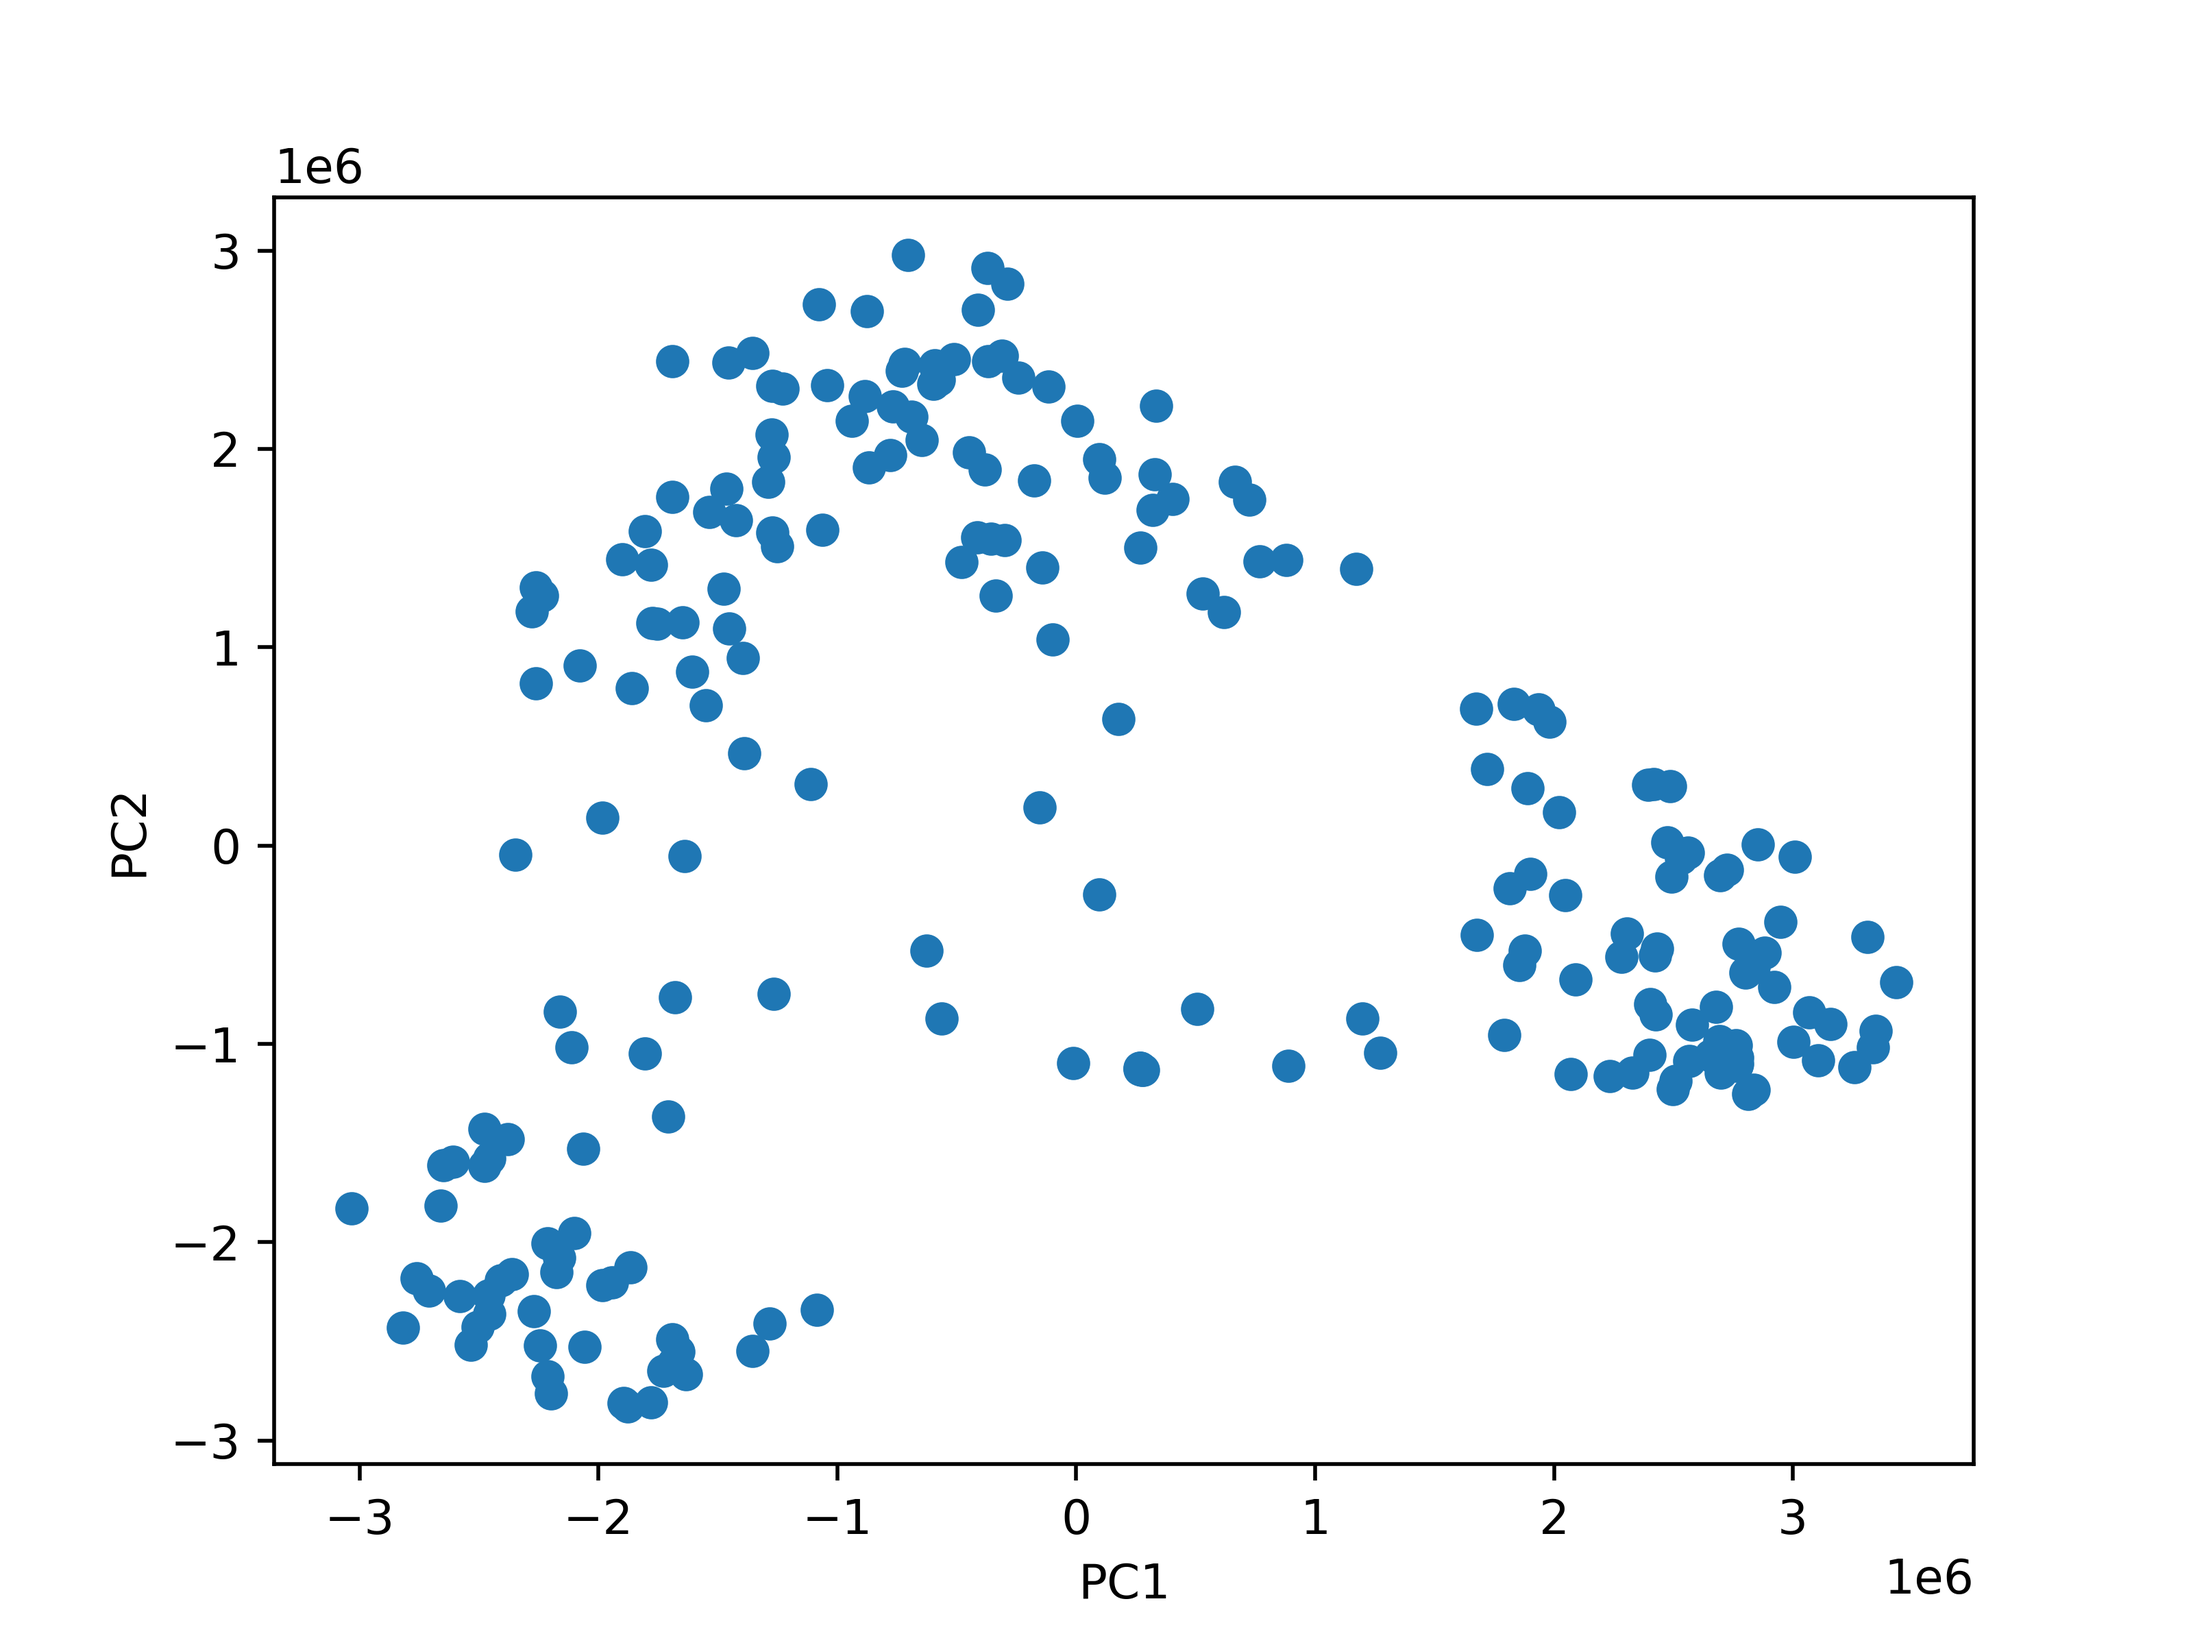
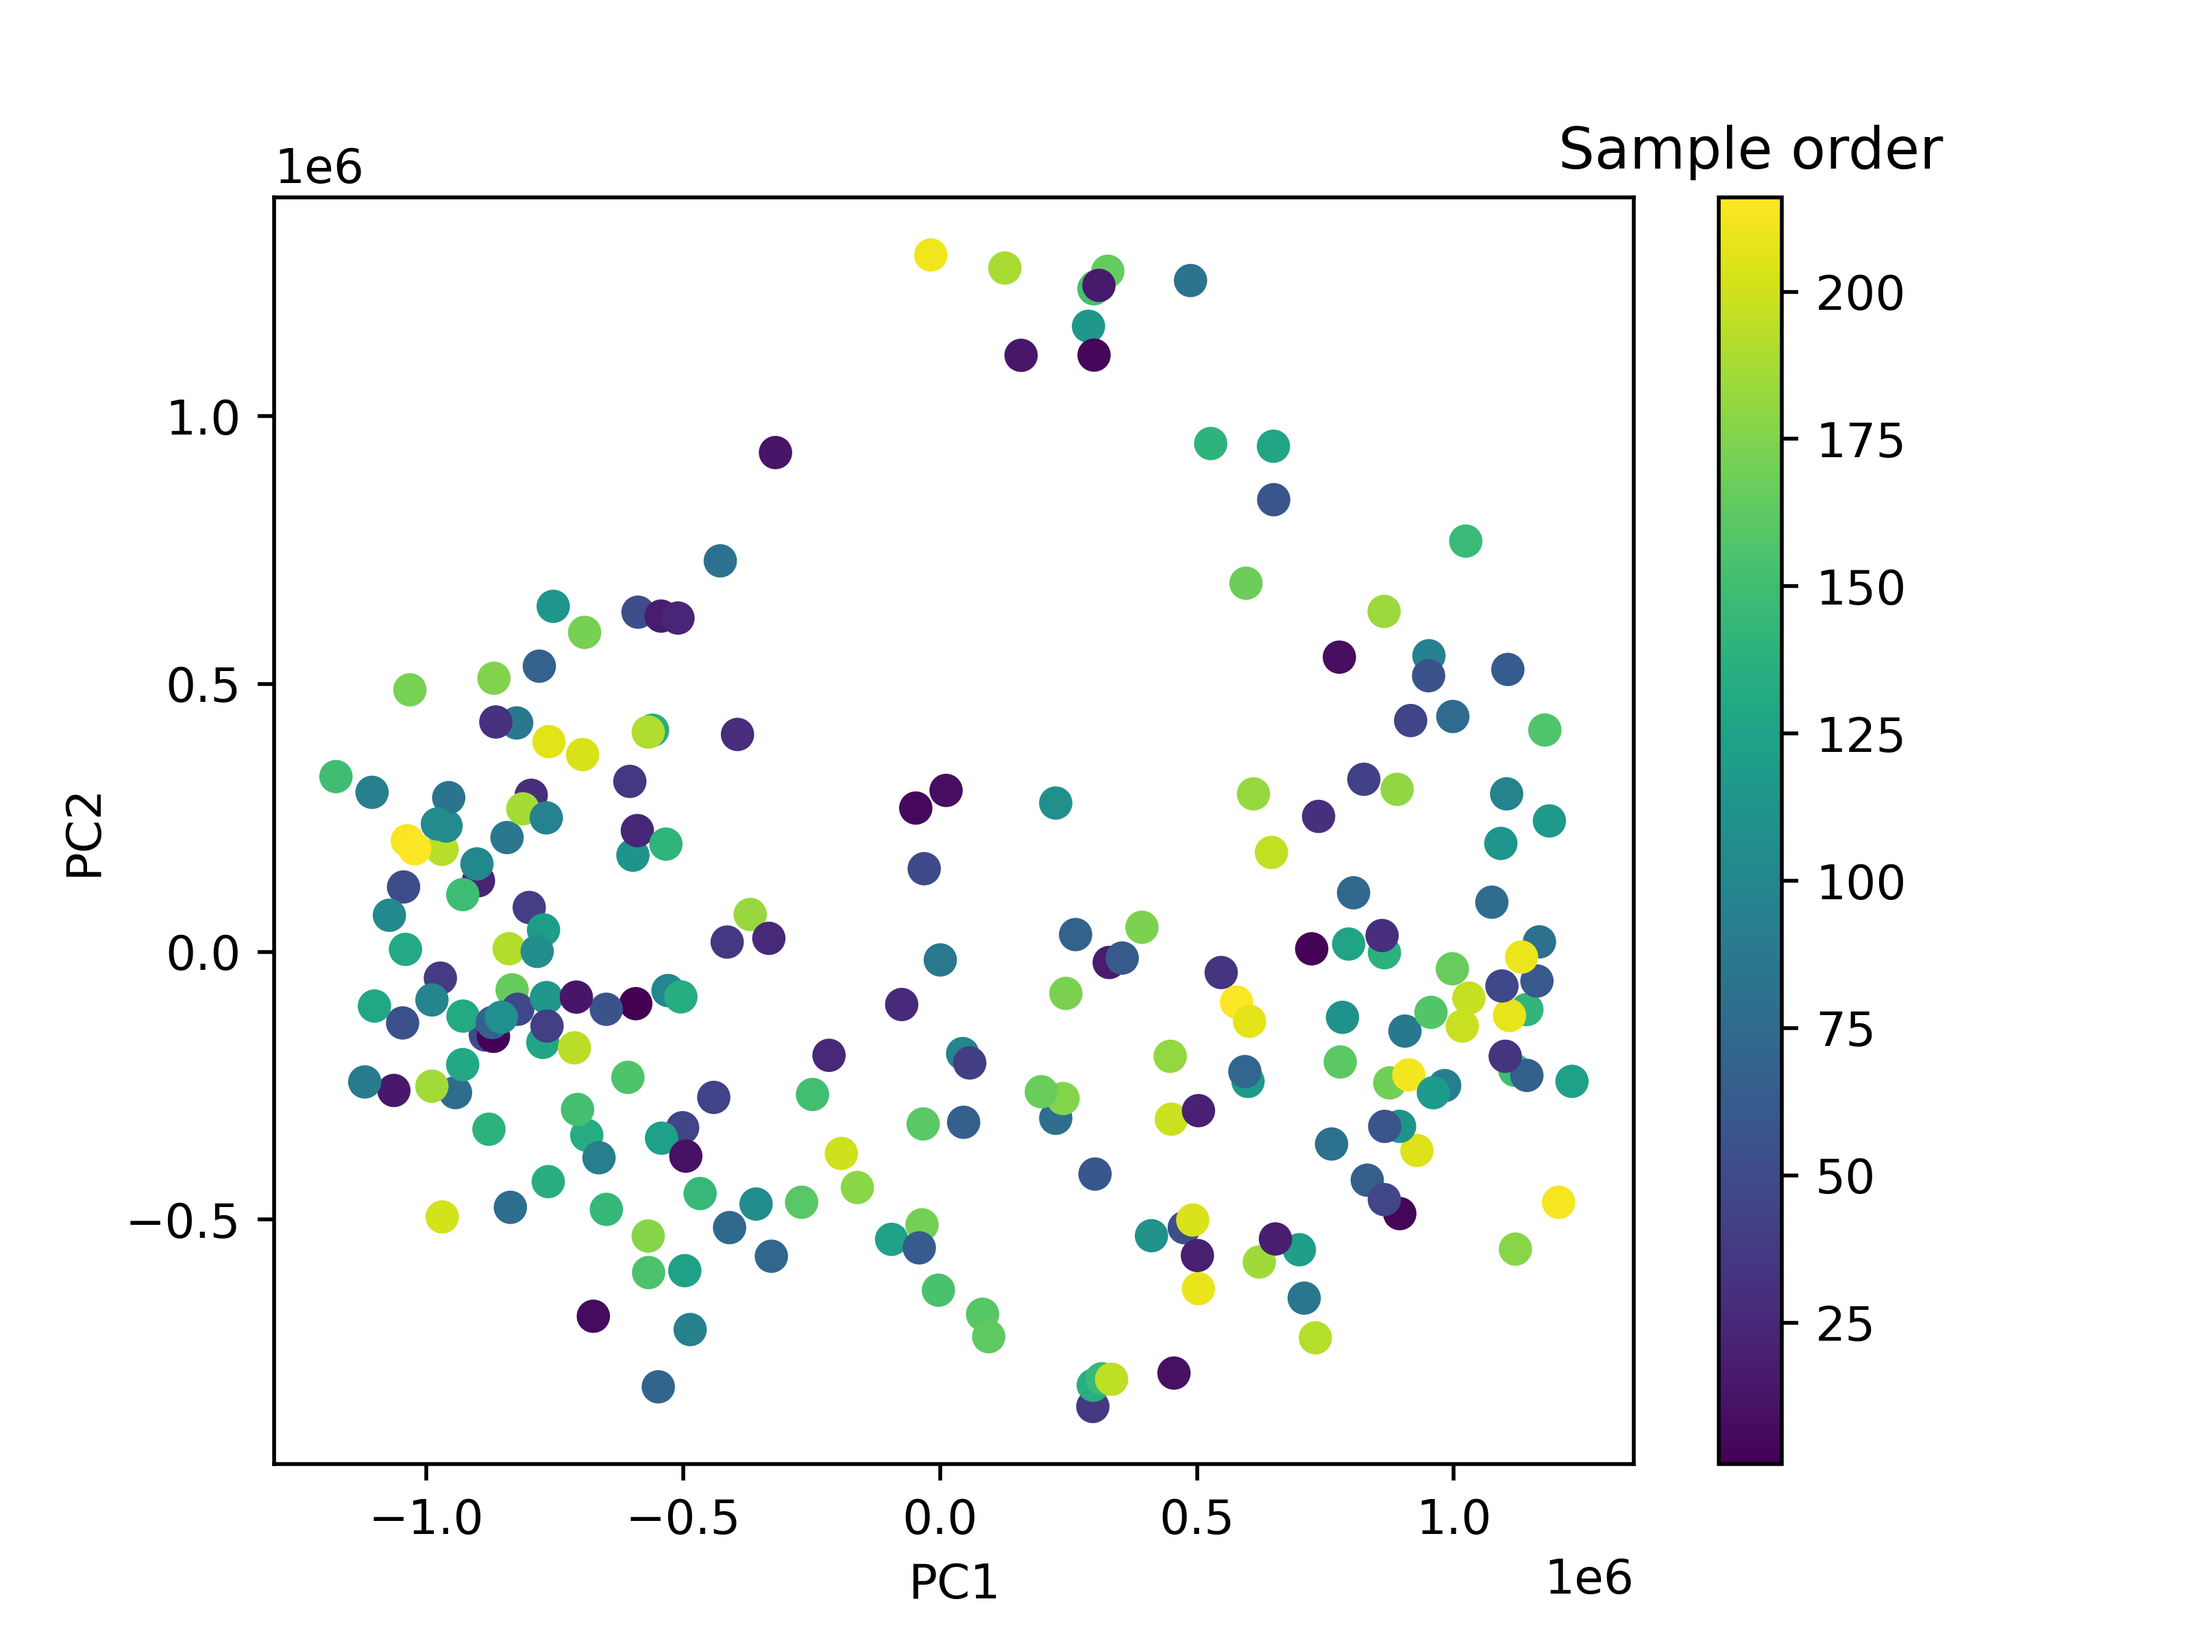
major update

diff --git a/2-align2pca.py b/2-align2pca.py
@@ -1,0 +1,98 @@
+#%% Import vars and modules
+
+DIR = '/Users/franciscolima/Documents/Projects/metab_conv/'
+# Pars
+NITER = 2500
+T_EPS = 1e-6
+HEIGHT = 1024
+WIDTH = 512
+SEED = 999
+
+# Imports
+import os, re, glob, sys, cv2
+os.chdir(DIR)
+import img_utils
+from tqdm import tqdm
+import pandas as pd
+import numpy as np
+from matplotlib import pyplot as plt
+from sklearn.preprocessing import StandardScaler
+from sklearn.decomposition import PCA
+
+#%% Load metadata
+
+metadata = pd.read_csv(DIR + 'metadata/a_metabolomics_Fernie.txt', sep='\t')
+
+#%% Load .npy arrays, image aligment to the smallest
+
+# List all arrays
+arrays = glob.glob(r'arrays/*.npy')
+
+# Take avg arr as reference for alignment; for smallest arr use arrays.pop(sizes.argmin())
+ref = np.mean(np.stack([img_utils.img_load_prep(arr, (WIDTH, HEIGHT)) for arr in arrays]), axis=0)
+
+# Apply alignment over all images, add ref to list
+print('ECC image alignment...')
+aligned = [img_utils.img_registration(ref.astype(np.float32), arr, NITER, T_EPS) for arr in tqdm(arrays)]
+
+# Prepare control set to compare with vs without alignment
+print('Produce non-aligned counterpart for comparison...')
+ctrl = [img_utils.img_load_prep(arr, (WIDTH, HEIGHT)) for arr in tqdm(arrays)]
+
+#%% Compare global 2D variance pre- and post-alignment
+var_aligned = np.var(np.stack(aligned), axis=0)
+var_ctrl = np.var(np.stack(ctrl), axis=0)
+
+fig, axs = plt.subplots(1, 2, sharex=True, sharey=True)
+imgs = []
+imgs.append(axs[0].imshow(var_ctrl))
+axs[0].set_title('Non-aligned')
+imgs.append(axs[1].imshow(var_aligned))
+axs[1].set_title('Aligned')
+cbr = fig.colorbar(imgs[0], ax=axs)
+cbr.ax.set_title('Var')
+fig.savefig('figures/2Dvar.png', dpi=500)
+fig.clear()
+#%% Principal component analysis
+
+# Import and preprocess all samples (.npy arrays)
+X_flat = np.vstack([f.flatten() for f in aligned]) # (216, WIDTH*HEIGHT)
+
+# Mean-center pixels and perform PCA
+X = StandardScaler(with_std=False).fit_transform(X_flat)
+pca = PCA(n_components=2, random_state=SEED)
+scores = pca.fit_transform(X)
+loadings = pca.components_.T
+
+if not os.path.exists('figures/'):
+    os.mkdir('figures/')
+
+# Extract order of arrays
+pttn = re.compile(r'[0-9]+_[0-9]+')
+# Regex to get sample ID
+ids = [re.findall(pttn, string=name)[0] for name in arrays]
+# Another regex to facilitate ranking by sample order
+ids = np.array([re.sub(pattern='_', repl='.', string=i) for i in ids], dtype=np.float32)
+sample_order = ids.argsort() + 1
+
+# Plot PC 1-2
+plt.scatter(scores[:,0], scores[:,1], c=sample_order)
+plt.xlabel('PC1')
+plt.ylabel('PC2')
+cbr = plt.colorbar()
+cbr.ax.set_title('Sample order')
+plt.savefig('figures/pca.png', dpi=500)
+
+# Plot loadings after reshaping
+loads1 = loadings[:,0].reshape((HEIGHT, WIDTH))
+loads2 = loadings[:,1].reshape((HEIGHT, WIDTH))
+
+fig, axs = plt.subplots(1, 2, sharex=True, sharey=True)
+imgs = []
+imgs.append(axs[0].imshow(loads1))
+axs[0].set_title('Loadings 1')
+imgs.append(axs[1].imshow(loads2))
+axs[1].set_title('Loadings 2')
+cbr = fig.colorbar(imgs[0], ax=axs)
+plt.savefig('figures/loadings.png', dpi=500)
+fig.clear()

diff --git a/img_utils.py b/img_utils.py
@@ -1,4 +1,4 @@
-#%% Utils to process images
+#%% Utils to process the data
 
 # Imports
 import os, sys, cv2
@@ -24,12 +24,10 @@ def suppress_stdout(): # suppress verbose
             sys.stdout = old_stdout
 
 # Define function
-def cdf_processing(fpath, structure): # nscans
+def cdf_processing(fpath, structure):
     with suppress_stdout():
         # Read CDF
         dat = ANDI_reader(fpath)
-        # Trim first NUM_SCAN timepoints
-        #dat.trim(1, nscans-1)
         # Construct int matrix ~ (n_scan, n_mz)
         im = build_intensity_matrix_i(dat)
         # Basic noise and baseline corrections
@@ -37,26 +35,28 @@ def cdf_processing(fpath, structure): # nscans
         norm = tophat_im(smooth, struct=structure)
     return norm
 
+#%% Image processing fun
+def img_load_prep(fpath, target_size):
+    arr = np.load(fpath).astype(np.float32)
+    arr = cv2.blur(arr, ksize=(3, 3))
+    arr = cv2.resize(arr, dsize=target_size, interpolation=cv2.INTER_AREA)
+    return arr
+
 #%% Image registation using Enhanced Correlation Coefficient Maximization (ECC)
-def img_registration(pref, parr, niter=5000, termination_eps=1e-10):
+def img_registration(ref, arrpath, niter, termination_eps):
     # Import the reference and target arrays
-    ref = np.load(pref).astype(np.float32)
-    arr = np.load(parr).astype(np.float32)
-    sz = ref.shape
-    # Define model
-    warp_mode = cv2.MOTION_TRANSLATION
+    #ref = img_load_prep(refpath, ts)
+    h, w = ref.shape
+    arr = img_load_prep(arrpath, (w, h))
+
+    # Define mode
+    warp_mode = cv2.MOTION_TRANSLATION # cv2.MOTION_AFFINE
     warp_matrix = np.eye(2, 3, dtype=np.float32)
     # Set criteria
     criteria = (cv2.TERM_CRITERIA_EPS | cv2.TERM_CRITERIA_COUNT, niter, termination_eps)
     # Run method, return aligned array w/ shape of ref
     _, warp_matrix = cv2.findTransformECC(ref, arr, warp_matrix, warp_mode, criteria)
-    aligned = cv2.warpAffine(arr, warp_matrix, (sz[1], sz[0]),
+    aligned = cv2.warpAffine(arr, warp_matrix, (w, h),
                     flags=cv2.INTER_LINEAR + cv2.WARP_INVERSE_MAP)
     return aligned
 
-#%% Image processing fun
-def img_prep(fpath, target_size):
-    arr = np.load(fpath)
-    arr = cv2.blur(arr, ksize=(3, 3))
-    arr = cv2.resize(arr, dsize=target_size)
-    return arr

diff --git a/1-cdf2npy.py b/1-cdf2npy.py
@@ -1,9 +1,10 @@
 #%% Import vars and modules
 
 DIR = '/Users/franciscolima/Documents/Projects/metab_conv/'
-#NUM_SCANS = 4200
+# Pars
 STRUCT = '0.5m'
 
+# Imports
 import os, re, glob
 os.chdir(DIR)
 import img_utils
@@ -13,7 +14,7 @@ from tqdm import tqdm
 #%% Apply noise and baseline correction, save as .npy
 
 # List all CDFs
-fpaths = glob.glob('data/*.cdf') # N = 216
+fpaths = glob.glob('data/*.cdf') # n=216
 
 print('Processing and saving 2D arrays...')
 # Define regex to extract ID and iterate

diff --git a/README.md b/README.md
@@ -29,3 +29,4 @@ Info about package [here](https://pymassspec.readthedocs.io/en/master/)
 * find way to align chromatograms
 * Apply ECC. Here is a nice [tutorial](https://www.learnopencv.com/image-alignment-ecc-in-opencv-c-python/) and the ECC [original paper](http://xanthippi.ceid.upatras.gr/people/evangelidis/george_files/PAMI_2008.pdf).
 * Affine trasnformation (in contrast to translational ECC) takes a lot longer
+* Ideal scenario is using full-res. Requires sacrificing no. iterations and threshold for alignment.
